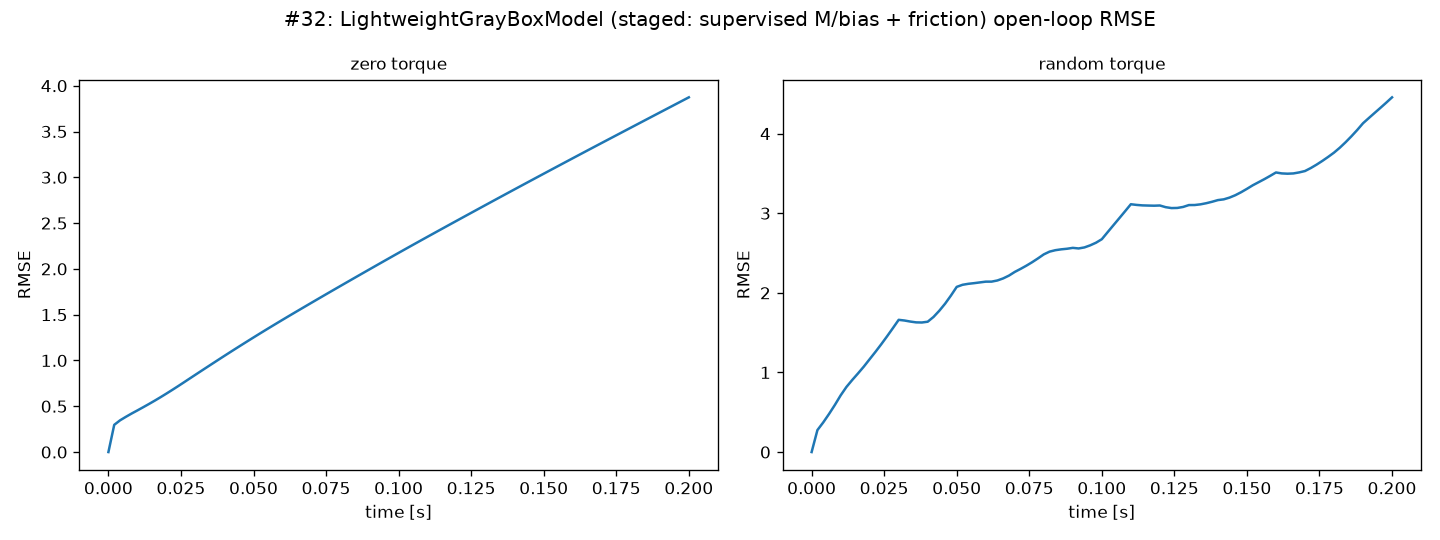
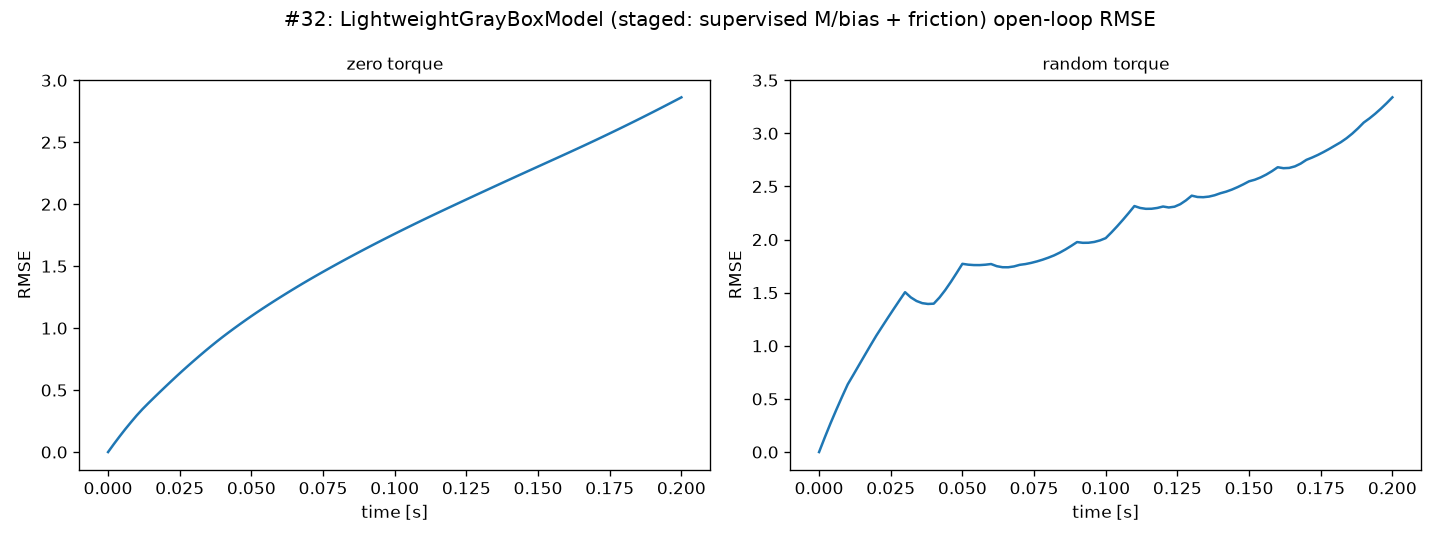
#32: bias(q,q̇)の関節間振幅差(正規化)を修正し、段階的カリキュラムを改善
前回のsrc/pretrain_mass_bias.pyはM(q)・bias(q,q̇)ともに正規化なしの生MSE
で学習していた。関節ごとの内訳を確認したところ、bias(q,q̇)は腕関節
(振幅6.6-13.3)が手首関節(振幅0.02-1.0)の1-600倍あるため、生MSEでは
手首関節の勾配がほぼ消え、相対誤差がほぼ100%(ゼロ予測と同水準)になって
いた(Phase2-M8の教訓と同じ現象、src/train.pyのchannel_std正規化を
入れ忘れていた)。

bias_netを成分ごとの標準偏差で正規化したMSEに切り替えたところ、手首関節
は改善したが(q6: 100%→63%相対誤差)、元々良かったq1が悪化する(23%→
76%)トレードオフが生じた(6出力を共有する小さなMLPでは全成分を同時に
高精度化できないため)。一方M(q)は成分間スケール差が軽微で、逆に分散が
極端に小さい成分を正規化すると数値不安定を招くことを確認したため、生MSE
のまま維持した。

このbias_net(正規化版)で摩擦の段階的カリキュラムを学習し直したところ、
学習損失は0.043→0.0098(RNEA版0.0016に近づいた)、開ループRMSE(0.2秒、
random torque)は4.46→3.34、PTP制御(6秒)の最終誤差は0.41-0.43→
0.36-0.38、12秒延長でも1/2成功を維持した。過渡応答ではq6の収束が
大幅に高速化した一方、bias_net正規化で相対的に悪化したq5が新たな
律速要因になった。詳細はREADME教訓14参照。

Claude-Session: https://claude.ai/code/session_01Rvrf6mcbh1UrexApn66z2b

diff --git a/src/pretrain_mass_bias.py b/src/pretrain_mass_bias.py
@@ -51,6 +51,12 @@ def train_mass_net(model: LightweightGrayBoxModel) -> tuple[float, float]:
     q_val_t = torch.as_tensor(q_val)
     m_val_t = torch.as_tensor(m_val)
 
+    # #32での検証: bias(q,q̇)と違いM(q)の成分間スケール差は1.6-26%相対誤差
+    # 程度と軽微(手首関節でもM(q)の絶対値自体は非ゼロで無視できるほど小さく
+    # ない)。むしろ一部の成分(例: M11)は分散が非常に小さい(ほぼ定数)ため、
+    # 標準偏差で正規化すると些細な絶対誤差が正規化後に爆発し、他の成分の
+    # 学習を阻害する数値不安定を招くことを確認した。そのためM(q)は正規化なし
+    # の生MSEのまま学習する(bias_netとは対照的、下記参照)。
     optimizer = torch.optim.Adam(model.mass_net.parameters(), lr=LR)
     scheduler = torch.optim.lr_scheduler.CosineAnnealingLR(optimizer, T_max=N_EPOCHS, eta_min=LR * 0.01)
     n = q_train_t.shape[0]
@@ -94,6 +100,11 @@ def train_bias_net(model: LightweightGrayBoxModel) -> tuple[float, float]:
 
     from src.model import encode_state
 
+    # bias(q,q̇)は腕関節(q1-3)と手首関節(q4-6)で振幅が1-600倍異なる
+    # (コリオリ項が腕側の大きな慣性・角速度で支配的になるため)。mass_netと
+    # 同じ理由で成分ごとの標準偏差正規化が必須。
+    channel_std = bias_train_t.std(dim=0, keepdim=True).clamp_min(1e-4)
+
     optimizer = torch.optim.Adam(model.bias_net.parameters(), lr=LR)
     scheduler = torch.optim.lr_scheduler.CosineAnnealingLR(optimizer, T_max=N_EPOCHS, eta_min=LR * 0.01)
     n = state_train.shape[0]
@@ -104,7 +115,7 @@ def train_bias_net(model: LightweightGrayBoxModel) -> tuple[float, float]:
         for start in range(0, n, BATCH_SIZE):
             idx = perm[start : start + BATCH_SIZE]
             pred = model.bias_net(encode_state(state_train[idx]))
-            loss = ((pred - bias_train_t[idx]) ** 2).mean()
+            loss = (((pred - bias_train_t[idx]) / channel_std) ** 2).mean()
             optimizer.zero_grad()
             loss.backward()
             optimizer.step()
@@ -114,7 +125,7 @@ def train_bias_net(model: LightweightGrayBoxModel) -> tuple[float, float]:
 
         with torch.no_grad():
             val_pred = model.bias_net(encode_state(state_val))
-            val_loss = ((val_pred - bias_val_t) ** 2).mean().item()
+            val_loss = (((val_pred - bias_val_t) / channel_std) ** 2).mean().item()
         if epoch % 5 == 0 or epoch == N_EPOCHS - 1:
             print(f"[bias_net] epoch {epoch+1:3d} train_mse={epoch_loss:.6f} val_mse={val_loss:.6f}")
 

diff --git a/README.md b/README.md
@@ -120,17 +120,29 @@ M(q) q̈ = tau - bias(q,q̇) - friction(q̇)
   M(q)・bias(q,q̇)・摩擦を同時にロールアウト損失だけで学習する設計自体を
   疑い、2段階に分けて検証した。(1)ロールアウトを介さず、真の
   `mass_matrix(q)`/`bias_forces(q,q̇)`への直接教師あり回帰でmass_net/
-  bias_netを事前学習したところ、M(q)は相対誤差2.4%まで収束したが、
-  bias(q,q̇)は17.5%で頭打ちになった。(2)このmass_net/bias_netを凍結し、
-  `StructuredFrictionGrayBoxModel`と同様に摩擦係数(12スカラー)だけを
-  ロールアウト損失で学習した。学習損失自体は0.043とRNEA版(0.0016)は
-  もちろん#30(0.0185)より悪化したが、実用指標では明確な改善が見られた:
-  計算トルク法PTP制御(6秒)は最終誤差0.41-0.43(#30は4.96-5.83)まで
-  改善し、#12の教訓通り12秒に延長すると2/2中1/2が成功(0.16、
-  しきい値0.2)した。過渡応答を見ると、#19/#30で見られたq6の巻き付き・
-  暴走(-2.2rad)は解消し、収束方向は正しいが速度が遅いだけになった。
-  M(q)は直接教師ありなら高精度に学習できる一方、bias(q,q̇)(コリオリ項・
-  重力項)がMLPにとって本質的に学習しづらい部分であることが分かった。
+  bias_netを事前学習した。M(q)は正規化なしの生MSEで相対誤差2.4%まで
+  収束したが、bias(q,q̇)は当初生MSEで17.5%で頭打ちになった。関節ごとに
+  内訳を見ると腕関節(q1-3)は12-23%だが手首関節(q4-6)はほぼ0%(ゼロ予測と
+  同水準)で、腕関節の振幅(平均6.6-13.3)が手首関節(平均0.02-1.0)の
+  1-600倍あるため生MSEでは手首関節の勾配がほぼ消えていたと判明した
+  (Phase2-M8の教訓と同じ現象)。成分ごとの標準偏差で正規化したMSEに
+  切り替えたところ、手首関節は改善したが(q6: 100%→63%相対誤差)、
+  逆に元々良かったq1が悪化する(23%→76%)トレードオフが生じた(全成分を
+  均等に扱うため、隠れ層を共有する小さなMLPでは全成分を同時に高精度化
+  できない)。なおM(q)自体は成分間スケール差が軽微なため標準偏差正規化は
+  不要で、逆に分散が極端に小さい成分(ほぼ定数)で正規化が数値不安定を
+  招くことを確認し、M(q)は生MSEのまま維持した。(2)この
+  mass_net/bias_net(正規化版)を凍結し、`StructuredFrictionGrayBoxModel`
+  と同様に摩擦係数(12スカラー)だけをロールアウト損失で学習した。学習損失は
+  0.0098までRNEA版(0.0016)に近づき(#30の0.0185より改善)、開ループRMSE
+  (0.2秒、random torque)も5.22→3.34まで改善した。計算トルク法PTP制御
+  (6秒)の最終誤差は0.36-0.38(#30は4.96-5.83)まで改善し、12秒に延長
+  すると2件中1件成功(0.18)した。過渡応答では#19/#30で見られたq6の
+  巻き付き・暴走(-2.2rad)が解消し1-2秒で収束するようになったが、代わりに
+  bias_net正規化で相対的に悪化したq5が新たな律速要因になった(緩やかに
+  目標から外れて戻る挙動)。M(q)は直接教師ありなら高精度に学習できる一方、
+  bias(q,q̇)(コリオリ項・重力項)は関節間の振幅差が大きく、単一の小さな
+  MLPで全関節を同時に高精度化するのは本質的に難しいことが分かった。
 
 ## 教訓
 
@@ -303,6 +315,25 @@ M(q) q̈ = tau - bias(q,q̇) - friction(q̇)
     #19/#30よりはるかに改善し、q6の巻き付き・暴走という質的な失敗も
     解消した。「学習損失の大小」と「実用上の精度・安定性」は必ずしも
     同じ方向に動かないことを重ねて確認した(#30の教訓と対応)。
+
+14. **多出力回帰で成分間の振幅差が大きいとき、正規化なしのMSEは大振幅
+    成分に支配され小振幅成分の勾配がほぼ消えるが、正規化しても「全成分を
+    均等に扱う」ことと「小さなモデルで全成分を同時に高精度化できる」ことは
+    別問題である**(#32): #32のbias_net直接教師あり回帰で、正規化なしの
+    生MSEでは腕関節(振幅6.6-13.3)が損失を支配し手首関節(振幅0.02-1.0)の
+    相対誤差がほぼ100%(ゼロ予測と同水準)になっていた。Phase2-M8の教訓
+    通り成分ごとの標準偏差で正規化すると手首関節は大きく改善したが、
+    今度は元々良かった腕関節(特にq1)の精度が23%→76%まで悪化する
+    トレードオフが生じた。原因は、mass_net/bias_netが6出力を1つの
+    小さな隠れ層(hidden_dim=64)で共有しているため、全成分を均等な重みで
+    同時に高精度化するだけの表現力がなく、正規化の有無によって「どの成分を
+    犠牲にするか」が変わるだけだったこと。また質量行列M(q)では逆に、
+    分散が極端に小さい(ほぼ定数の)成分を標準偏差で正規化すると、些細な
+    絶対誤差が正規化後に爆発し学習全体を不安定化させることも確認した
+    (M(q)は生MSEのまま据え置いた)。「正規化すれば多出力の不均衡が
+    解決する」と単純に考えず、(a) 振幅差の原因が真に無視できない物理量の
+    差なのか、(b) 正規化後に数値的に安定か、(c) モデル容量が全成分を
+    同時に満たせるだけあるか、を個別に確認する必要がある。
 
 ## 使い方
 
